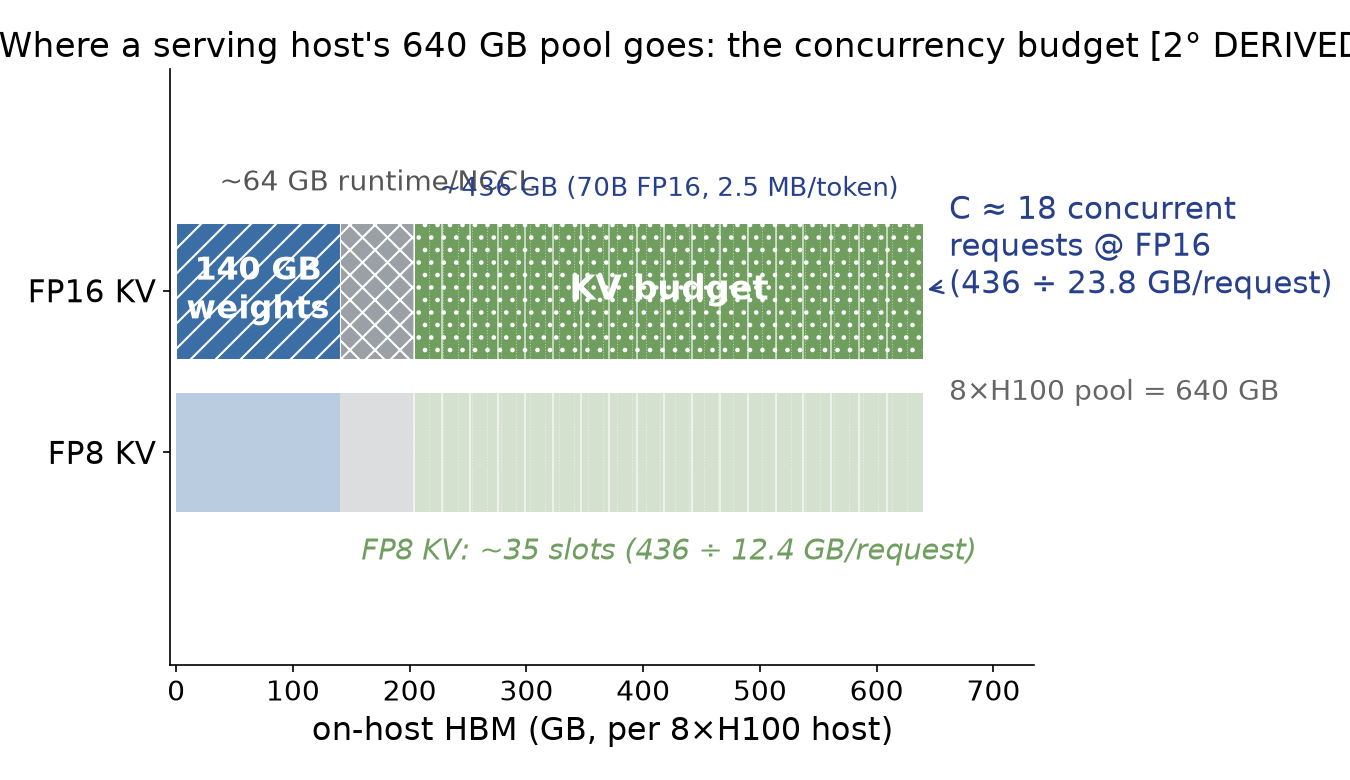
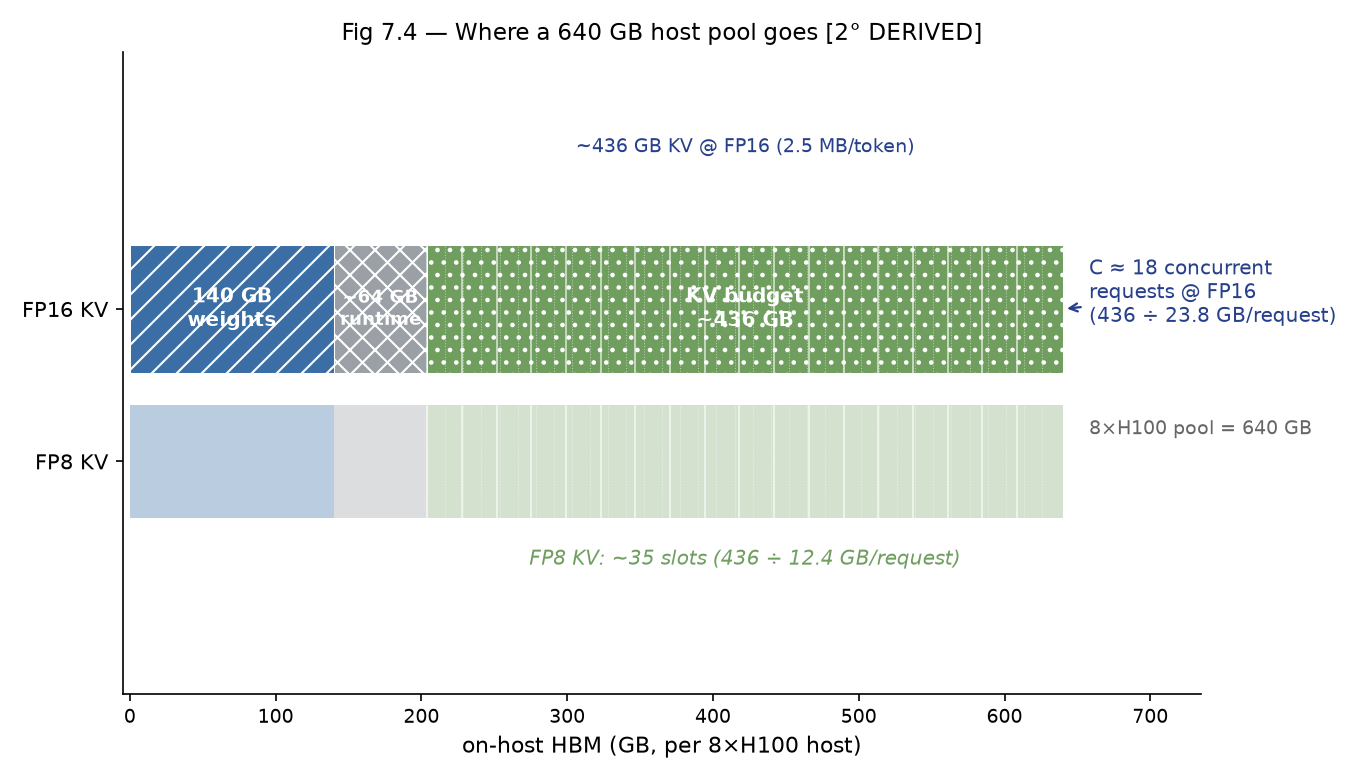
Fix Fig 7.4 budget bar: in-segment labels, no overlap, unclipped title

diff --git a/render/fig_ch7_budget.py b/render/fig_ch7_budget.py
@@ -1,86 +1,71 @@
 """Fig 7.4 - The concurrency budget: where a 70B host's 640 GB HBM pool goes.
 
-The single most-reused arithmetic in the book (Ch4/7/11/12/15/17/19 all cite it):
    weights 140 GB + runtime/NCCL ~64 GB + KV budget ~436 GB = 640 GB pool
-   C(FP16) = 436 / 23.8 per-request KV ≈ 18 concurrent requests
-   C(FP8)  = 436 / 12.4            ≈ 35 concurrent requests
-This is the picture that locks the Ch7 <-> Ch17 handoff.
+   C(FP16) = 436 / 23.8 per-request KV ~ 18 concurrent requests
+   C(FP8)  = 436 / 12.4            ~ 35 concurrent requests
 """
 
 import matplotlib
 matplotlib.use('Agg')
 import matplotlib.pyplot as plt
-import matplotlib.patches as mpatches
-from matplotlib.patches import FancyArrowPatch
+from matplotlib.patches import Patch
 
 weights, runtime, kv = 140, 64, 436
 total = weights + runtime + kv  # 640
-kv_fp16_req = 23.8   # GB per request, canonical FP16 KV
+kv_fp16_req = 23.8
 kv_fp8_req = 12.4
 C_fp16 = kv / kv_fp16_req
 C_fp8 = kv / kv_fp8_req
 
 fig, ax = plt.subplots(figsize=(9, 5.2))
 
-# ---- stacked horizontal bar (one row, y=0) ----
 y = 0.0
-span_weights = (0, weights)
-span_runtime = (weights, weights + runtime)
-span_kv = (weights + runtime, total)
+kv_start = weights + runtime
 
+# FP16 row
 ax.barh(y, weights, left=0, height=0.8, color='#3a6ea5', edgecolor='white', hatch='//', lw=0.5)
 ax.barh(y, runtime, left=weights, height=0.8, color='#9aa0a6', edgecolor='white', hatch='xx', lw=0.5)
 ax.barh(y, kv, left=weights + runtime, height=0.8, color='#6f9e5f', edgecolor='white', hatch='..', lw=0.5)
 
-# ---- segment labels ----
-ax.text(weights / 2, y, f'{weights} GB\nweights', ha='center', va='center',
-        color='white', fontsize=10.5, fontweight='bold')
-ax.text(weights + runtime / 2, y + 0.55, f'~{runtime} GB runtime/NCCL', ha='center', va='bottom',
-        color='#555', fontsize=9)
-ax.text((weights + runtime) + kv / 2, y, 'KV budget', ha='center', va='center',
-        color='white', fontsize=11, fontweight='bold')
-ax.text((weights + runtime) + kv / 2, y + 0.52, f'~{kv} GB (70B FP16, 2.5 MB/token)', ha='center', va='bottom',
-        color='#27408b', fontsize=8.5)
-
-# ---- tick the KV region in 23.8 GB slots (FP16, C~18) ----
-kv_start = weights + runtime
-slot = kv_fp16_req
-n = 0
-x = kv_start
-while x + slot <= total + 0.5:
-    ax.axvline(x, ymin=0.18, ymax=0.82, color='white', lw=0.8, alpha=0.7)
-    x += slot
-    n += 1
-
-# ---- faint FP8 overlay (second, thinner bar) showing ~35 slots ----
+# FP8 row (faint overlay)
 y8 = -0.95
 ax.barh(y8, weights, left=0, height=0.7, color='#3a6ea5', alpha=0.35, edgecolor='none')
 ax.barh(y8, runtime, left=weights, height=0.7, color='#9aa0a6', alpha=0.35, edgecolor='none')
 ax.barh(y8, kv, left=weights + runtime, height=0.7, color='#6f9e5f', alpha=0.30, edgecolor='none')
+
+# KV slot ticks
+x = kv_start
+while x + kv_fp16_req <= total + 0.5:
+    ax.axvline(x, ymin=0.18, ymax=0.82, color='white', lw=0.8, alpha=0.7)
+    x += kv_fp16_req
 xx = kv_start
-nn = 0
 while xx + kv_fp8_req <= total + 0.5:
     ax.axvline(xx, ymin=0.12, ymax=0.88, color='white', lw=0.5, alpha=0.5, ls=':')
     xx += kv_fp8_req
-    nn += 1
-ax.text(kv_start + kv / 2, y8 - 0.5, f'FP8 KV: ~{C_fp8:.0f} slots (436 ÷ {kv_fp8_req:.1f} GB/request)',
-        ha='center', va='top', fontsize=9.5, color='#6f9e5f', style='italic')
 
-# ---- callouts ----
-# FP16 tally to the right of the bar
+# ---- In-segment labels (white, inside each segment => never overlap a neighbor) ----
+ax.text(weights / 2, y, f'{weights} GB\nweights', ha='center', va='center', color='white', fontsize=9.5, fontweight='bold')
+ax.text(weights + runtime / 2, y, f'~{runtime} GB\nruntime', ha='center', va='center', color='white', fontsize=8.8, fontweight='bold')
+ax.text(kv_start + kv / 2, y, f'KV budget\n~{kv} GB', ha='center', va='center', color='white', fontsize=9.5, fontweight='bold')
+
+# ---- Totals & derivation above/below the bars (single baseline each) ----
+ax.text(kv_start + kv / 2, y + 0.95, f'~{kv} GB KV @ FP16 (2.5 MB/token)', ha='center', va='bottom', color='#27408b', fontsize=9)
+
+# FP8 note below
+ax.text(kv_start + kv / 2, y8 - 0.55, f'FP8 KV: ~{C_fp8:.0f} slots (436 ÷ {kv_fp8_req:.1f} GB/request)', ha='center', va='top', color='#6f9e5f', fontsize=9.5, style='italic')
+
+# Concurrency derivation callout to the right
 ax.annotate(f'C ≈ {C_fp16:.0f} concurrent\nrequests @ FP16\n(436 ÷ 23.8 GB/request)',
-            xy=(total, y), xytext=(total + 22, y + 0.25),
-            fontsize=10, color='#27408b', ha='left', va='center',
-            arrowprops=dict(arrowstyle='->', color='#27408b', lw=1.2))
-ax.text(total + 22, y - 0.6, f'8×H100 pool = 640 GB', fontsize=9, color='#666', ha='left', va='center')
+            xy=(total, y), xytext=(total + 18, y + 0.1), fontsize=9.5, color='#27408b',
+            ha='left', va='center', arrowprops=dict(arrowstyle='->', color='#27408b', lw=1.1))
+ax.text(total + 18, y - 0.75, '8×H100 pool = 640 GB', fontsize=9, color='#666', ha='left', va='center')
 
 ax.set_xlim(-5, total + 95)
-ax.set_ylim(-2.2, 1.3)
+ax.set_ylim(-2.4, 1.6)
 ax.set_yticks([y, y8])
 ax.set_yticklabels(['FP16 KV', 'FP8 KV'], fontsize=10)
 ax.set_xlabel('on-host HBM (GB, per 8×H100 host)', fontsize=10.5)
-ax.set_title('Fig 7.4 — Where a serving host\'s 640 GB pool goes: the concurrency budget [2° DERIVED]',
-             fontsize=11)
+ax.set_title('Fig 7.4 — Where a 640 GB host pool goes [2° DERIVED]', fontsize=11)
 ax.tick_params(axis='x', labelsize=9)
 ax.spines['top'].set_visible(False)
 ax.spines['right'].set_visible(False)
